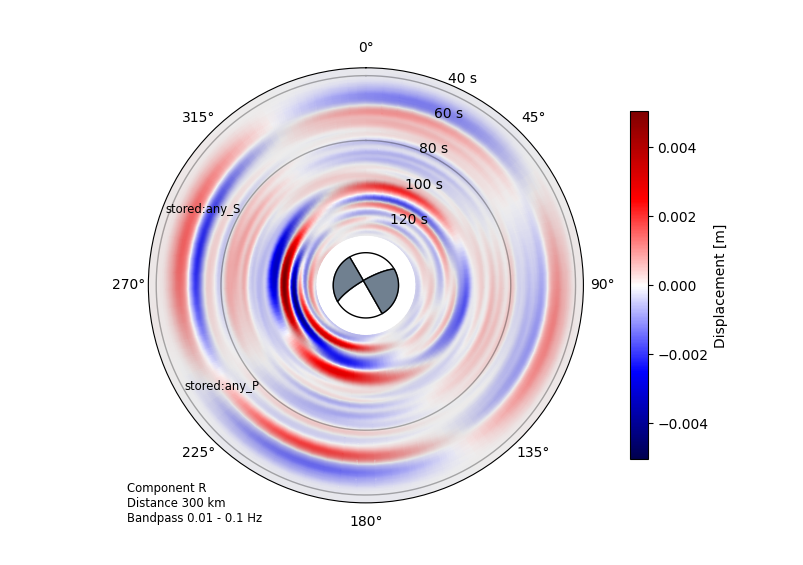
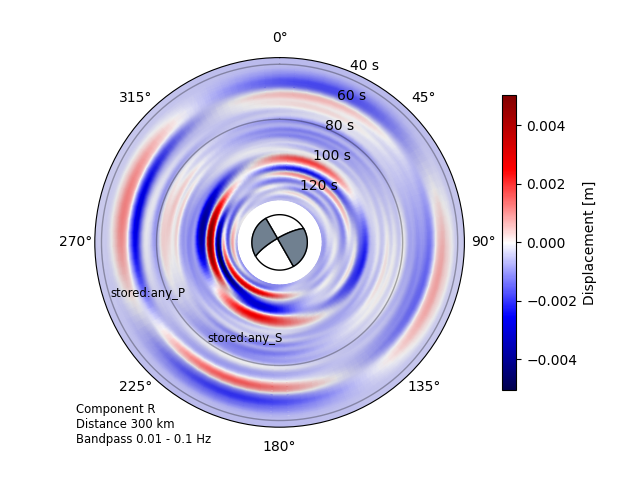
plot.directivity: adding envelope plot

diff --git a/src/plot/directivity.py b/src/plot/directivity.py
@@ -75,7 +75,9 @@ def get_azimuthal_targets(
     return targets, azimuths
 
 
-def get_seismogram_array(response, fmin=None, fmax=None, component='R'):
+def get_seismogram_array(
+        response, fmin=None, fmax=None,
+        component='R', envelope=False):
     resp = response
     assert len(resp.request.sources) == 1, 'more than one source in response'
 
@@ -102,6 +104,8 @@ def get_seismogram_array(response, fmin=None, fmax=None, component='R'):
 
     for tr in traces:
         tr.extend(tmin, tmax, fillmethod='repeat')
+        if envelope:
+            tr.abshilbert()
 
     data = num.array([tr.get_ydata() for tr in traces])
     nsamples = data.shape[1]
@@ -166,7 +170,7 @@ def plot_directivity(
         distance=300*km, azi_begin=0., azi_end=360., dazi=1.,
         phase_begin='first{stored:any_P}-10%',
         phase_end='last{stored:any_S}+50',
-        quantity='displacement',
+        quantity='displacement', envelope=False,
         component='R', fmin=0.01, fmax=0.1,
         hillshade=True, cmap='seismic',
         plot_mt='full', show_annotations=True,
@@ -198,6 +202,8 @@ def plot_directivity(
     :type phase_end: :py:class:`~pyrocko.gf.meta.Timing`
     :param quantity: Seismogram quantity, default ``displacement``
     :type quantity: str
+    :param envelope: Plot envelop instead of seismic trace
+    :type envelope: bool
     :param component: Forward modelled component, default ``R``. Choose from
         `RTZ`
     :type component: str
@@ -207,7 +213,8 @@ def plot_directivity(
     :type fmax: float
     :param hillshade: Enable hillshading, default ``True``
     :type hillshade: bool
-    :param cmap: Matplotlit colormap to use, default ``seismic``
+    :param cmap: Matplotlit colormap to use, default ``seismic``.
+        When ``envelope`` is ``True`` the default colormap will be ``Reds``.
     :type cmap: str
     :param plot_mt: Plot a centered moment tensor, default ``full``.
         Choose from ``full, deviatoric, dc or False``
@@ -233,7 +240,9 @@ def plot_directivity(
     store = engine.get_store(store_id)
 
     resp = engine.process(source, targets, nthreads=nthreads)
-    data, times = get_seismogram_array(resp, fmin, fmax)
+    data, times = get_seismogram_array(
+        resp, fmin, fmax,
+        component=component, envelope=envelope)
 
     timing_begin = Timing(phase_begin)
     timing_end = Timing(phase_end)
@@ -247,9 +256,15 @@ def plot_directivity(
     times = times[tsel]
     duration = times[-1] - times[0]
 
+    if envelope and cmap == 'seismic':
+        cmap = 'Reds'
+
     vmax = num.abs(data).max()
     cmw = ScalarMappable(cmap=cmap)
     cmw.set_clim(-vmax, vmax)
+
+    if envelope:
+        cmw.set_clim(0., vmax)
 
     ax.set_theta_zero_location("N")
     ax.set_theta_direction(-1)
@@ -272,7 +287,7 @@ def plot_directivity(
 
     mesh = ax.pcolormesh(
         azimuths * d2r, times, data,
-        cmap='seismic', shading='gouraud', vmin=-vmax, vmax=vmax)
+        cmap=cmw.cmap, shading='gouraud')
 
     if hillshade:
         mesh.update_scalarmappable()
@@ -301,12 +316,12 @@ def plot_directivity(
         ax.plot(theta, tlast, color='k', alpha=.3, lw=1.)
 
         ax.text(
-            num.pi*4/3, tphase_first, '|'.join(_phase_begin.phase_defs),
+            num.pi*7/5, tphase_first, '|'.join(_phase_begin.phase_defs),
             ha='left', color='k', fontsize='small')
 
         ax.text(
-            num.pi*5/3, tphase_last, '|'.join(_phase_end.phase_defs),
-            ha='right', color='k', fontsize='small')
+            num.pi*6/5, tphase_last, '|'.join(_phase_end.phase_defs),
+            ha='left', color='k', fontsize='small')
 
     ax.text(
         -.05, -.05,
@@ -319,10 +334,14 @@ def plot_directivity(
         fontsize='small',
         ha='left', va='bottom', transform=ax.transAxes)
 
+    cbar_label = QUANTITY_LABEL[quantity]
+    if envelope:
+        cbar_label = 'Envelope ' + cbar_label
+
     fig.colorbar(
         cmw, ax=ax,
         orientation='vertical', shrink=.8, pad=0.075,
-        label=QUANTITY_LABEL[quantity])
+        label=cbar_label)
 
     if axes is None:
         plt.show()
@@ -352,4 +371,4 @@ if __name__ == '__main__':
 
     resp = plot_directivity(
         engine, rect_source, 'crust2_ib',
-        dazi=5, component='R', quantity='acceleration')
+        dazi=5, component='R', quantity='displacement', envelope=True)

diff --git a/examples/plot_directivity.py b/examples/plot_directivity.py
@@ -8,7 +8,7 @@ engine = LocalEngine(store_superdirs=['.'], use_config=True)
 
 try:
     engine.get_store(store_id)
-except:
+except Exception:
     ws.download_gf_store(site='kinherd', store_id=store_id)
 
 rect_source = RectangularSource(
@@ -31,4 +31,4 @@ resp = plot_directivity(
     engine, rect_source, store_id,
     distance=300*km, dazi=5., component='R',
     plot_mt='full', show_annotations=True,
-    quantity='displacement')
+    quantity='displacement', envelope=True)

diff --git a/doc/source/library/examples/plotting.rst b/doc/source/library/examples/plotting.rst
@@ -218,11 +218,21 @@ Download :download:`plot_directivity.py </../../examples/plot_directivity.py>`
 .. literalinclude :: /../../examples/plot_directivity.py
     :language: python
 
+
 .. figure :: /static/directivity_rectangular.png
     :align: center
-    :alt: Source radiation pattern, as 
+    :alt: Source radiation pattern of a RectangularSource
 
     Source radiation pattern at 300 km distance of the Mw 6.8 2020
     Elazig-Sevrice earthquake. The dominantly
     unilateral strike-slip rupture is reconstructed by a finite
     :py:mod:`~pyrocko.gf.seismosizer.RectangularSource` model.
+
+.. figure :: /static/directivity_envelope_rectangular.png
+    :align: center
+    :alt: Source radiation pattern of a RectangularSource
+
+    Here we see the envelope of the synthetic seismic traces,
+    emphasizing the directivity effects of the source (``envelope=True``).
+    Same source model: Mw 6.8 2020 Elazig-Sevrice earthquake.
+
